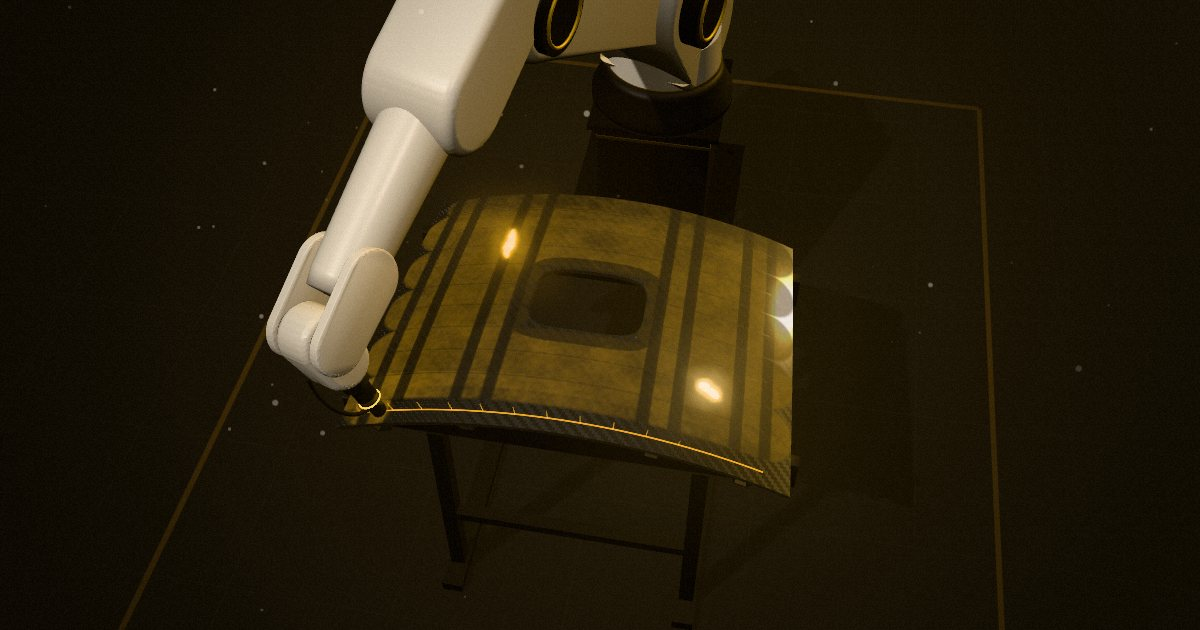
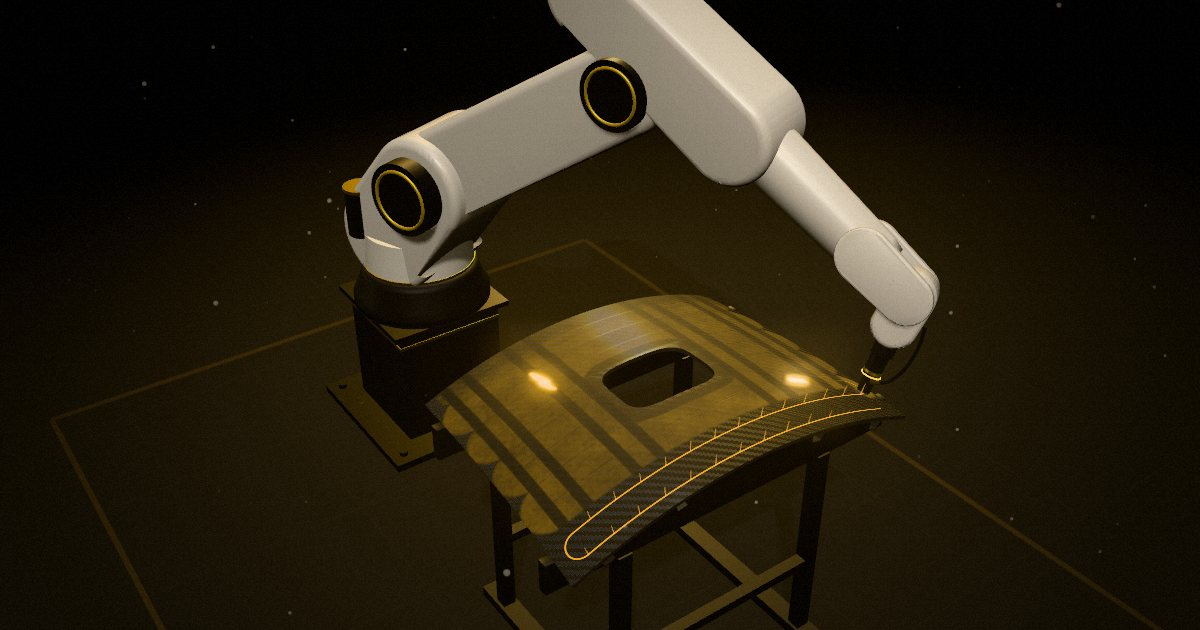
Tune quality tiers and the fallback for real devices.
- iPhones start on the medium tier: iOS Safari reports 4 cores on every
  model, which previously sent all of them to the lowest tier.
- Fallback: loader fades out quickly, poster reframed so the part stays
  visible between the headline and the card, lighter card on phones.
- New posters and share image rendered from the current scene.
- Drop the unused OutputPass/OutputShader vendor files.

diff --git a/try/try.css b/try/try.css
@@ -133,6 +133,7 @@
 .xp-load::before{content:"";position:absolute;width:42rem;height:42rem;border-radius:50%;background:radial-gradient(circle,rgba(232,197,71,.08) 0%,transparent 64%);pointer-events:none}
 .js .xp-load{display:flex}
 .xp.is-live .xp-load,.xp.is-fallback .xp-load,.no-module .xp-load{opacity:0;visibility:hidden;pointer-events:none}
+.xp.is-fallback .xp-load{transition-duration:.25s}
 .xp-load-in{position:relative;width:min(26rem,84vw)}
 .xp-load-k{margin:0 0 .45rem;font-family:"IBM Plex Mono",ui-monospace,monospace;font-size:.62rem;letter-spacing:.28em;text-transform:uppercase;color:var(--gold)}
 .xp-load-word{font-size:clamp(2.3rem,7.5vw,4rem);letter-spacing:.2em;line-height:.85;color:var(--fg)}
@@ -222,8 +223,11 @@ html:not(.js) .xp-ui,.no-module .xp-ui,.xp.is-fallback .xp-ui{bottom:0}
   .xp-play{padding:0;width:2.75rem}
   .xp-play-label{position:absolute;width:1px;height:1px;overflow:hidden;clip:rect(0 0 0 0);white-space:nowrap}
   .xp-recenter{padding:0 .55rem;font-size:9px;letter-spacing:.1em}
-  .xp-fallback-card{left:0;width:auto}
+  .xp-fallback-card{left:0;width:auto;padding:.95rem 1rem 1rem}
+  .xp-fallback-steps{display:none}
+  .xp-fallback-card .btn{margin-top:.9rem}
   .xp.is-fallback .xp-hero{bottom:auto;top:0}
+  .xp.is-fallback .xp-shade{background:linear-gradient(to bottom,rgba(5,5,5,.88) 0%,rgba(5,5,5,.7) 34%,rgba(5,5,5,0) 50%),linear-gradient(to top,rgba(5,5,5,.9) 0%,rgba(5,5,5,0) 30%)}
 }
 @media(prefers-reduced-motion:reduce){
   .xp-cap,.xp-hero,.xp-ascan,.xp-report,.xp-log li,.xp-load{transition:none}

diff --git a/try/js/main.js b/try/js/main.js
@@ -64,6 +64,8 @@ function pickTier(gpu) {
   if (/swiftshader|llvmpipe|software|basic render/i.test(n)) return 'low';
   const small = Math.min(screen.width, screen.height) < 820;
   if (isTouch || small) {
+    // iOS Safari reports 4 cores on every iPhone, so the core count is meaningless there.
+    if (/apple gpu/i.test(n)) return 'medium';
     const cores = navigator.hardwareConcurrency || 4;
     return cores <= 4 ? 'low' : 'medium';
   }
